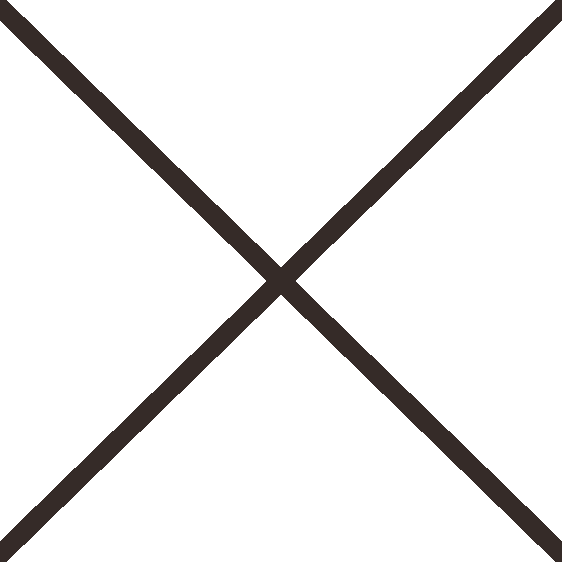
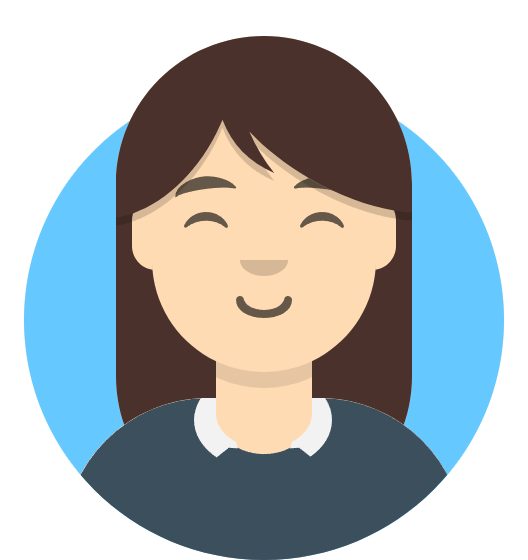
Portrait & About images

diff --git a/src/components/Portrait/Portrait.module.css b/src/components/Portrait/Portrait.module.css
@@ -54,6 +54,10 @@
     width: 50%;
     z-index: 1;
 
+    mask-image: radial-gradient(circle, rgba(0,0,0,1) 45%, rgba(0,0,0,0) 100%);
+
+    mask-mode: alpha;
+
     animation-name: floating;
     animation-duration: 3s;
     animation-iteration-count: infinite;
